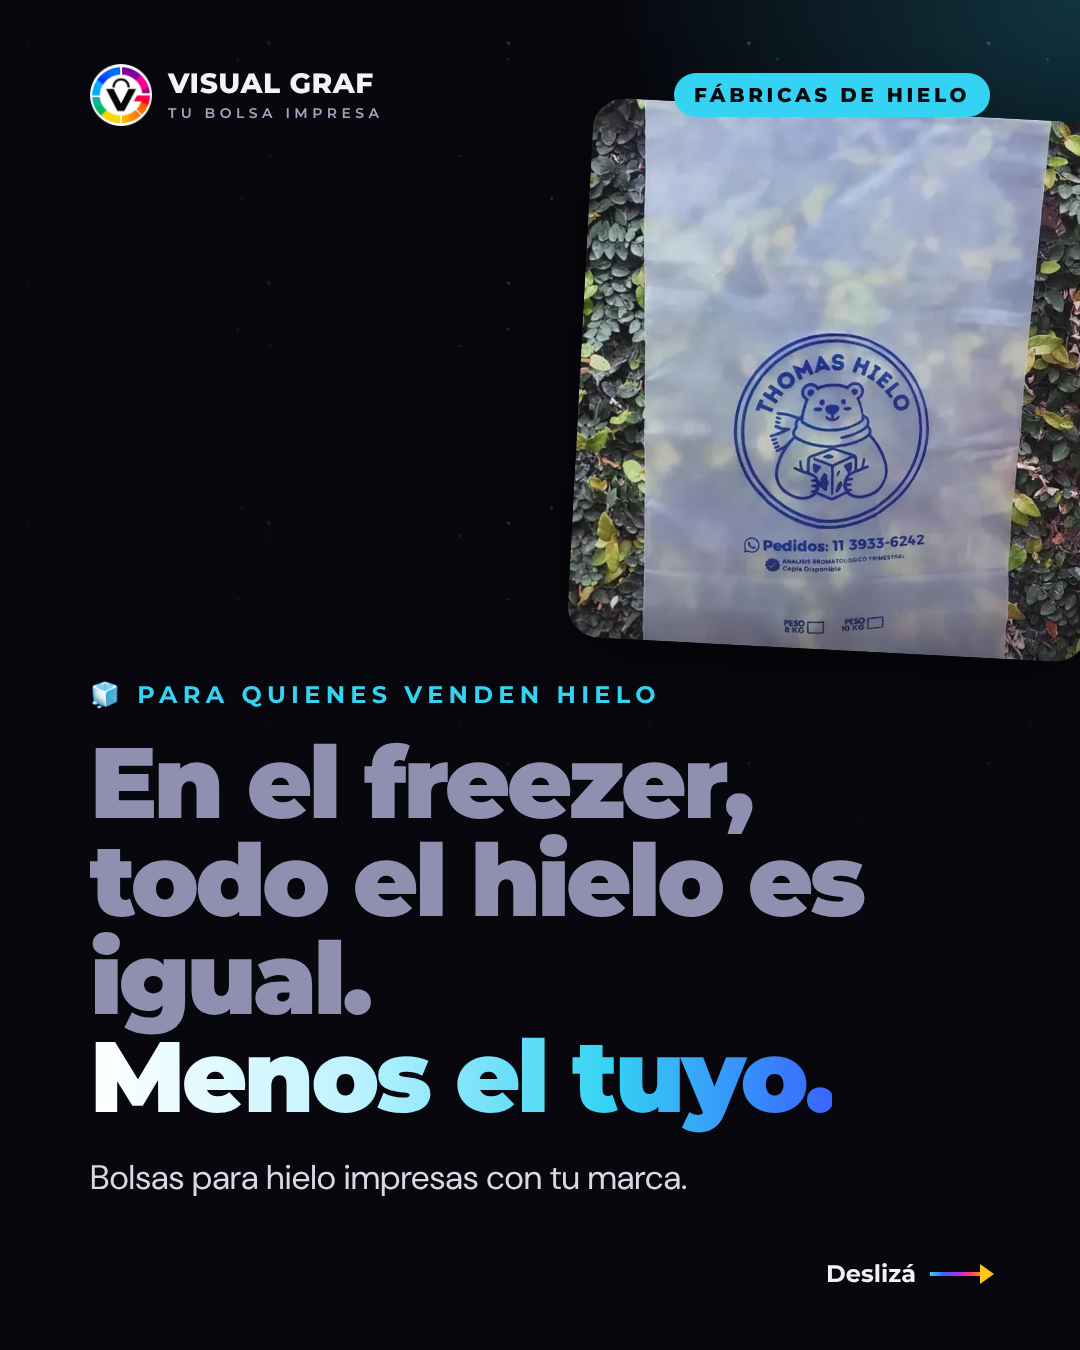
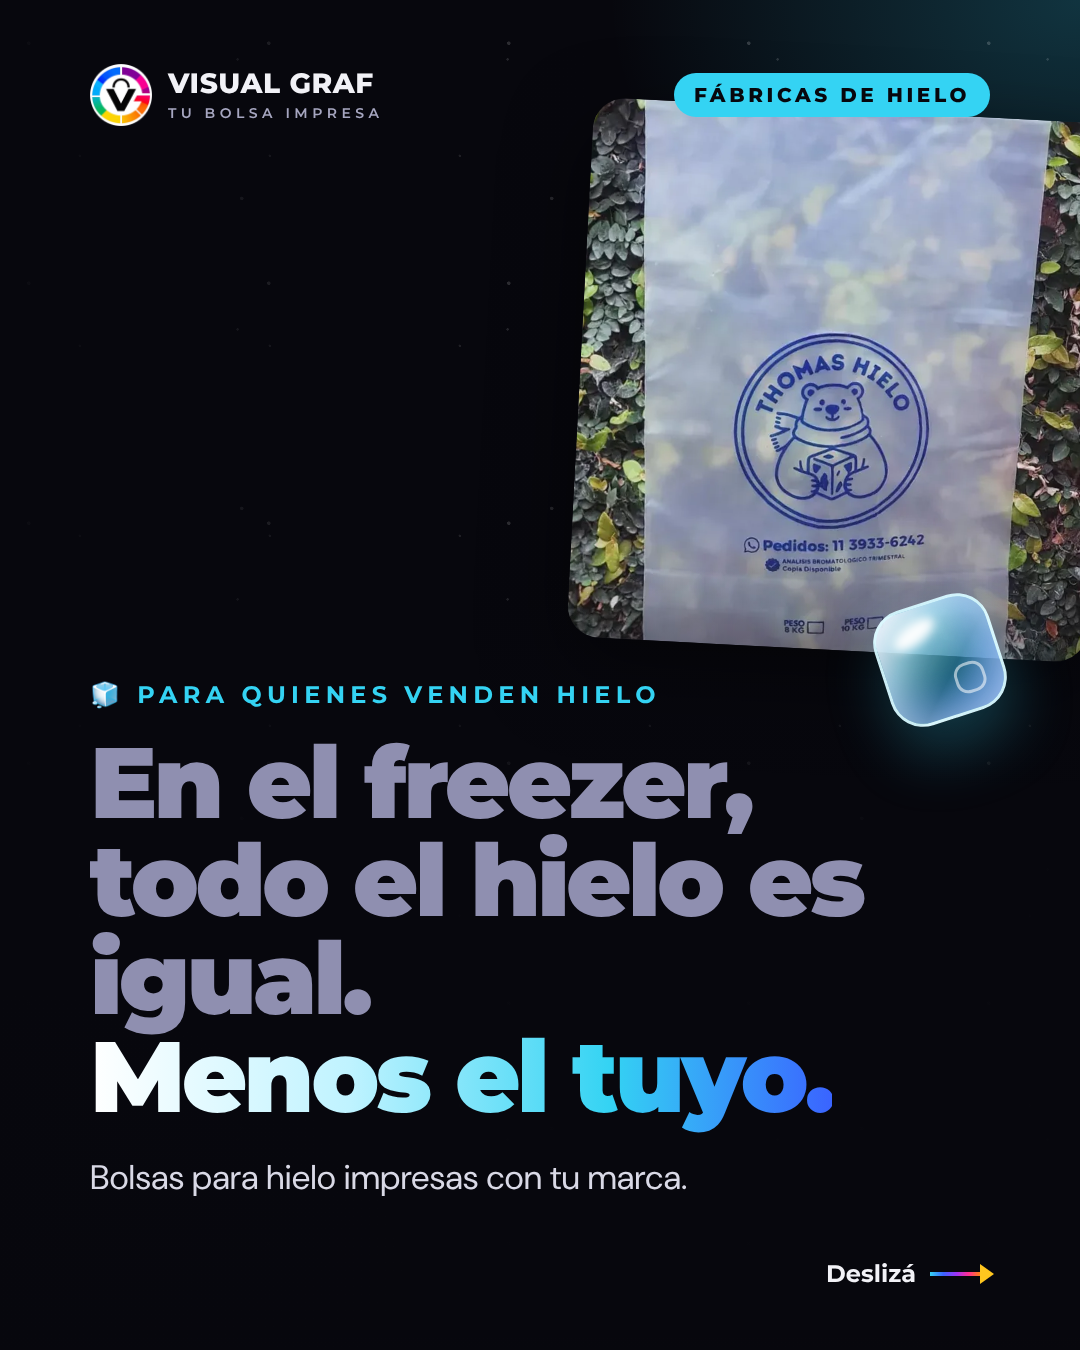
Instagram hielo v1: placa 04 dedicada al rubro hielo y cubos de hielo
Claude-Session: https://claude.ai/code/session_01MyU9ovTDhsx6sRbFto3tHa

Changed region(s): [[0.7944, 0.4356, 0.9472, 0.56]]

diff --git a/visualgraf_instagram/hielo/carrusel-hielo.html b/visualgraf_instagram/hielo/carrusel-hielo.html
@@ -136,16 +136,31 @@
 
   /* Números (nueva) */
   .sN h2{margin-top:160px;font-size:92px}
-  .sN .stats{margin-top:56px;display:grid;grid-template-columns:1fr 1fr 1fr;gap:22px}
-  .sN .st{background:var(--ink3);border:2px solid rgba(255,255,255,.08);border-radius:30px;padding:34px 36px}
+  .sN .stats{margin-top:40px;display:grid;grid-template-columns:1fr 1fr 1fr;gap:22px}
+  .sN .st{background:var(--ink3);border:2px solid rgba(255,255,255,.08);border-radius:30px;padding:28px 30px}
   .sN .st b{display:block;font-family:Montserrat;font-weight:900;font-size:130px;letter-spacing:-0.05em;line-height:.95}
-  .sN .st p{margin-top:10px;font-size:27px;color:#d2d2e0;line-height:1.3}
-  .sN .st.wide{grid-column:1/-1;display:flex;align-items:center;gap:40px;padding:44px 40px;background:linear-gradient(135deg,rgba(52,211,243,.18),rgba(58,100,255,.18));border-color:rgba(52,211,243,.4)}
+  .sN .st p{margin-top:8px;font-size:25px;color:#d2d2e0;line-height:1.3}
+  .sN .st.wide{grid-column:1/-1;display:flex;align-items:center;gap:40px;padding:34px 40px;background:linear-gradient(135deg,rgba(52,211,243,.18),rgba(58,100,255,.18));border-color:rgba(52,211,243,.4)}
   .sN .st.wide p{font-size:38px;font-weight:600;color:#fff;margin:0}
   .sN .faces{margin-top:56px;display:flex;align-items:center;gap:18px;font-size:25px;color:var(--mute)}
   .sN .faces img{width:84px;height:84px;border-radius:50%;object-fit:cover;border:3px solid var(--ink);margin-right:-34px;box-shadow:0 0 0 3px rgba(255,255,255,.2)}
   .sN .faces span{margin-left:46px}
   .sN .faces b{color:#fff}
+
+  .sN .st.wide b{font-size:150px}
+  .sN .st.wide p strong{color:var(--cyan)}
+  .sN .thomas{margin-top:24px;display:flex;align-items:center;gap:20px;background:rgba(255,255,255,.05);border:2px solid rgba(255,255,255,.1);border-radius:28px;padding:20px 26px}
+  .sN .thomas img{width:96px;height:120px;border-radius:16px;object-fit:cover;object-position:center 60%}
+  .sN .thomas p{font-size:27px;line-height:1.3;margin-left:10px}
+  .sN .thomas p span{color:var(--mute);font-size:23px}
+  .sN .faces{display:none}
+  /* cubo de hielo CSS */
+  .cube{position:absolute!important;border-radius:28%;z-index:1!important;
+    background:linear-gradient(135deg,rgba(255,255,255,.95) 0%,rgba(150,232,255,.75) 30%,rgba(52,211,243,.45) 60%,rgba(120,200,255,.8) 100%);
+    border:3px solid rgba(220,250,255,.9);
+    box-shadow:inset 0 0 50px rgba(255,255,255,.55),inset -18px -22px 40px rgba(58,100,255,.35),0 30px 60px rgba(52,211,243,.25)}
+  .cube::before{content:"";position:absolute;left:14%;top:12%;width:42%;height:18%;border-radius:50%;background:rgba(255,255,255,.95);filter:blur(5px);transform:rotate(-20deg)}
+  .cube::after{content:"";position:absolute;right:16%;bottom:14%;width:22%;height:22%;border-radius:40%;border:3px solid rgba(255,255,255,.55)}
 </style>
 </head>
 <body>
@@ -155,6 +170,7 @@
   <div class="head"><div class="brand"><img src="img/logo-512.png" alt=""><div><b>VISUAL GRAF</b><small>TU BOLSA IMPRESA</small></div></div><span class="tag">FÁBRICAS DE HIELO</span></div>
   <div class="photo"><img src="img/thomas-grande.webp" alt=""></div>
   <div class="shade"></div>
+  <div class="cube" style="width:120px;height:120px;left:880px;top:600px;transform:rotate(-18deg);z-index:4!important"></div>
   <div class="copy">
     <div class="eyebrow">🧊 Para quienes venden hielo</div>
     <h1><span class="dim">En el freezer,<br>todo el hielo es igual.</span><br><span class="ice">Menos el tuyo.</span></h1>
@@ -199,17 +215,18 @@
   <div class="rbar"></div>
 </section>
 
-<!-- 4 · Números -->
+<!-- 4 · La cuenta del hielo -->
 <section class="slide sN" id="sN">
   <div class="head"><div class="brand"><img src="img/logo-512.png" alt=""><div><b>VISUAL GRAF</b><small>TU BOLSA IMPRESA</small></div></div><span class="tag">04 / 08</span></div>
-  <h2>Los números<br><span class="grad">hablan solos</span></h2>
+  <div class="cube" style="width:150px;height:150px;right:70px;top:150px;transform:rotate(16deg)"></div>
+  <h2>La cuenta<br><span class="ice">del hielo.</span></h2>
   <div class="stats">
-    <div class="st"><b class="ice">12</b><p>marcas ya llevan su logo en nuestras bolsas</p></div>
-    <div class="st"><b class="grad">10</b><p>rubros, de perfumerías a fábricas de hielo</p></div>
-    <div class="st"><b class="ice">8</b><p>años de experiencia imprimiendo bolsas</p></div>
-    <div class="st wide"><b class="grad">1.500</b><p>veces tu WhatsApp<br>en la calle con un solo pack.</p></div>
+    <div class="st wide"><b class="ice">1.500</b><p>bolsas en un pack =<br><strong>1.500 veces tu WhatsApp</strong> viajando a asados, fiestas y conservadoras.</p></div>
+    <div class="st"><b class="grad">3</b><p>medidas en el mismo pack, para cada presentación que vendés</p></div>
+    <div class="st"><b class="ice">60</b><p>micrones en la bolsa grande, pensada para el peso del hielo</p></div>
+    <div class="st"><b class="grad">90</b><p>días de pico: diciembre, enero y febrero</p></div>
   </div>
-  <div class="faces"><img src="img/thomas.webp" alt=""><img src="img/perfumate.webp" alt=""><img src="img/olivia.webp" alt=""><img src="img/dobleg-negra.webp" alt=""><span><b>Thomas Hielo</b>, Perfúmate MG, Olivia Kids y más ya confiaron.</span></div>
+  <div class="thomas"><img src="img/thomas.webp" alt=""><img src="img/thomas-grande.webp" alt=""><p><b>Thomas Hielo</b> ya sale a la calle con su bolsa impresa por Visual Graf.<br><span>Bolsa chica y bolsa grande, con su WhatsApp de pedidos.</span></p></div>
   <div class="rbar"></div>
 </section>
 
@@ -276,6 +293,9 @@
 
 <!-- 7 · CTA -->
 <section class="slide s7" id="s7">
+  <div class="cube" style="width:170px;height:170px;left:70px;top:150px;transform:rotate(-14deg)"></div>
+  <div class="cube" style="width:120px;height:120px;right:90px;top:260px;transform:rotate(20deg)"></div>
+  <div class="cube" style="width:100px;height:100px;right:160px;bottom:170px;transform:rotate(-8deg)"></div>
   <img class="logo" src="img/logo-512.png" alt="">
   <h2>Que esta temporada<br><span class="ice">te pidan por nombre.</span></h2>
   <p class="lead">Mandanos tu logo y te enviamos la prueba de diseño.<br>Envíos a toda la Argentina.</p>

diff --git a/visualgraf_instagram/hielo/README.md b/visualgraf_instagram/hielo/README.md
@@ -1,6 +1,6 @@
 # Visual Graf × fábricas de hielo: carrusel + estrategia
 
-Carrusel de 7 placas (1080×1350) para atraer a **fábricas, distribuidoras y emprendimientos de hielo**.
+Carrusel de 8 placas (1080×1350) para atraer a **fábricas, distribuidoras y emprendimientos de hielo**.
 Subí `slide-01.png` → `slide-07.png` en orden. Fuente editable: `carrusel-hielo.html`.
 
 ## 1. Qué aprendí de este público
@@ -60,7 +60,7 @@ Baja densidad virgen, apta alimentos, cristal, impresas 1 cara 1 color.
 
 📌 Guardá la placa 5: todo lo que tiene que decir tu bolsa de hielo.
 
-#BolsasParaHielo #FabricaDeHielo #Hielo #HieloEnCubos #HieloRolito #DistribuidoraDeHielo #BolsasPersonalizadas #BolsasConLogo #Packaging #EmprendedoresArgentinos #Emprendimiento #Verano2027 #VisualGraf #TuBolsaImpresa
+#BolsasParaHielo #FabricaDeHielo #Hielo #HieloEnCubos #HieloRolito #DistribuidoraDeHielo #BolsasPersonalizadas #BolsasConLogo #HieloEnBolsa #VentaDeHielo #HieloPicado #Verano2027 #VisualGraf #TuBolsaImpresa
 ```
 
 ## 4. Cómo publicarlo y llegar a los que venden hielo
@@ -86,13 +86,15 @@ y naranja/magenta, tipografía gigante, stickers inclinados, cinta de advertenci
 se derrite. Placas: `v2/slide-01.png` → `v2/slide-07.png`. Fuente: `v2/carrusel-hielo-v2.html`.
 La placa 6 (“1 de diciembre, arranca la temporada”) sirve para publicar antes de diciembre. Después, cambiá el texto.
 
-## Placa de números (nueva, en las dos versiones)
-Ahora los carruseles tienen **8 placas**: se sumó la **04 “Los números hablan solos”** (v1) / **“1.500 veces a la calle”** (v2).
-Solo usa datos reales y comprobables:
-- **12 marcas** ya llevan su logo en bolsas Visual Graf (los trabajos de `content.ts`).
-- **10 rubros** (lista de rubros de la web).
-- **8 años** de experiencia en el rubro (historia del fundador).
-- **1.500**: un pack son 1.500 bolsas, o sea 1.500 veces tu WhatsApp en la calle (es una cuenta, no una promesa).
+## Placa de números (04)
+**v1, “La cuenta del hielo”** (100 % del rubro hielo, datos reales):
+- **1.500** bolsas por pack = 1.500 veces tu WhatsApp viajando a asados, fiestas y conservadoras.
+- **3** medidas en el mismo pack (26×40, 28×50 y 35×75).
+- **60** micrones en la bolsa grande.
+- **90** días de pico: diciembre, enero y febrero.
+- Caso real: **Thomas Hielo**, con su bolsa chica y su bolsa grande.
+
+**v2, “1.500 veces a la calle”:** usa además 12 marcas, 10 rubros y 8 años (datos de la web).
 
 ⚠ **No pusimos “nuestros clientes vendieron X % más”** porque no tenemos ese dato. Inventarlo es publicidad engañosa
 (Ley 22.802 de Lealtad Comercial y Ley 24.240 de Defensa del Consumidor) y, si alguien lo pregunta, te deja expuesto.
